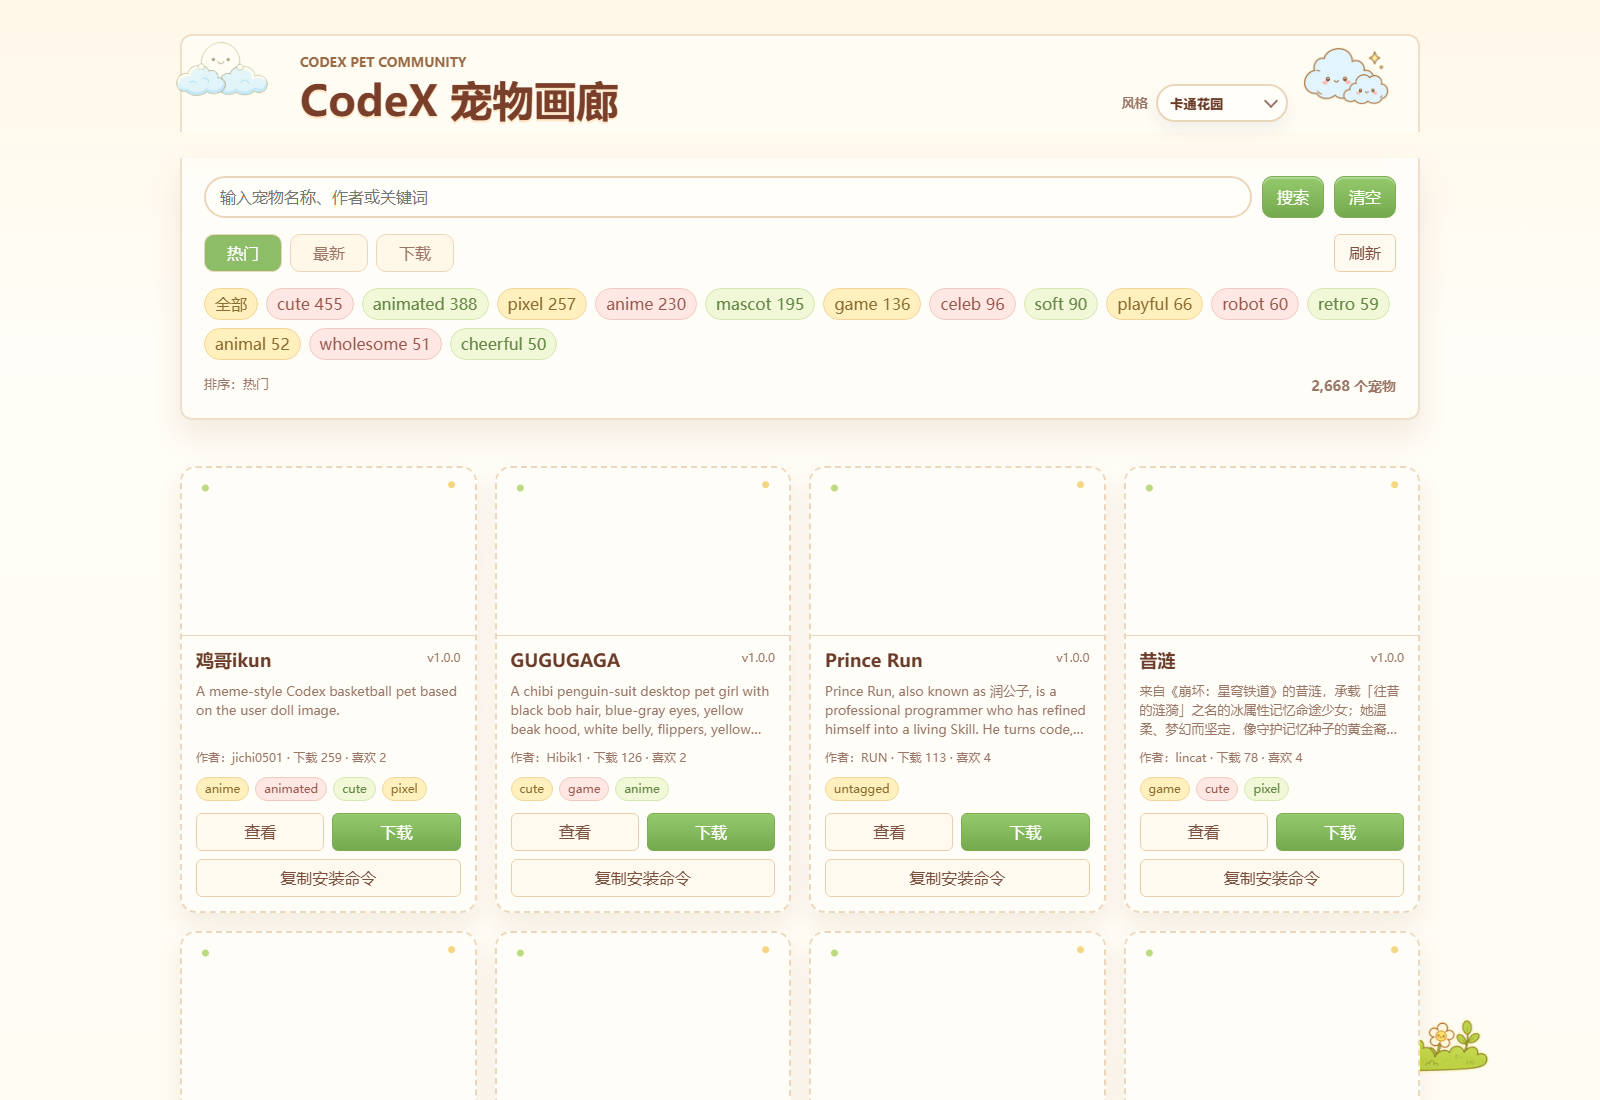
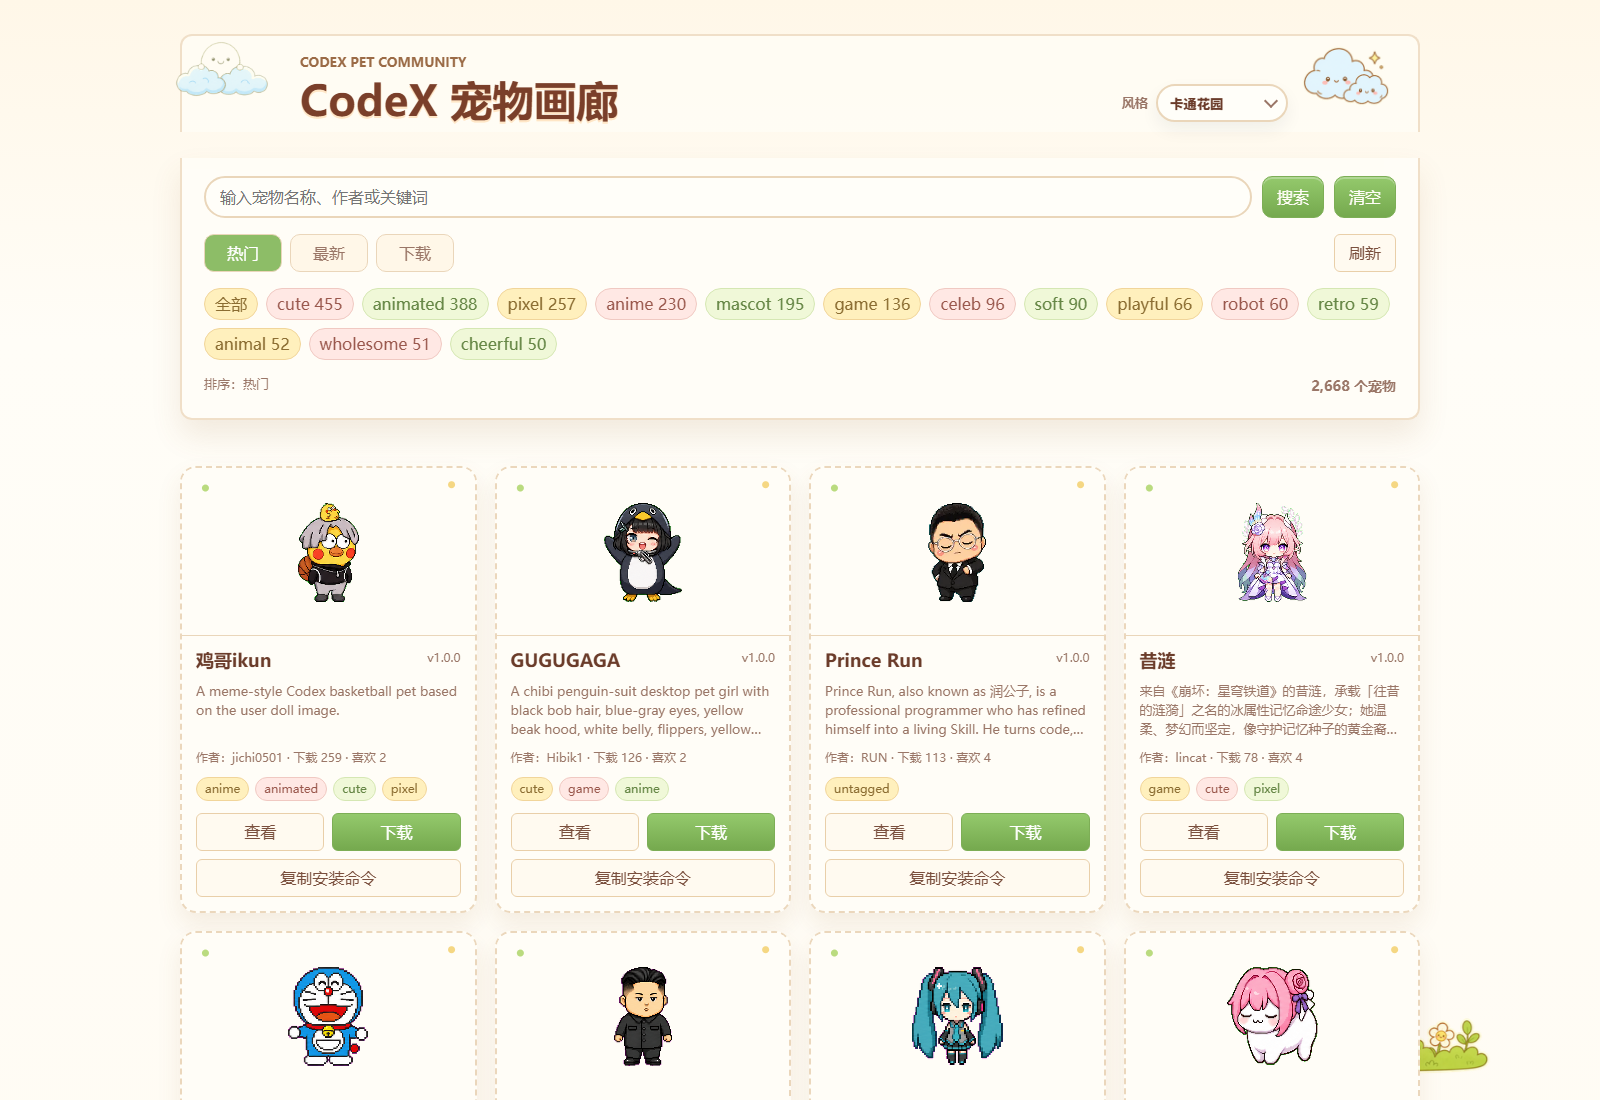
优化Codex宠物画廊推广

diff --git a/src/content/posts/2026-05-16-codex-pet-gallery-free-download.md b/src/content/posts/2026-05-16-codex-pet-gallery-free-download.md
@@ -90,55 +90,40 @@ https://codexpet.1024588.xyz/?style=cartoon
 
 ![GUGUGAGA spritesheet](/assets/images/posts/codex-pet-gallery/gugugaga-spritesheet.png)
 
-这些 spritesheet 会被 Codex 按行和帧数切分，映射到待机、移动、等待、检查等动作状态。你在页面上看到的是宠物包能否正常工作的关键资产。
+这些 spritesheet 会被 Codex 按行和帧数切分，映射到待机、移动、等待、检查等动作状态。
 
-## 第四步：下载宠物包
 
+## 第四步：下载安装宠物包
+下载方式分两种：
+### 第一种：直接下载文件压缩包 ###
 如果你只想先保存宠物，可以直接点击卡片或详情页里的“下载”按钮。下载得到的是一个宠物压缩包，文件名类似：
 
 ```text
-ikun-pet.codex-pet.zip
+ikun-pet.zip
 ```
 
-这个方式适合你想先收藏，或者准备手动检查包内容。
+找到codex的pets目录（快捷查看目录所在位置：打开codex软件-->>设置-->>外观-->>宠物-->自定义宠物-->>打开文件夹），
+将压缩包解压至当前文件夹中即可，回到Codex软件刷新后就可以配置自定义宠物了
+![pets所在目录](/assets/images/posts/codex-pet-gallery/pets-image.png)
+### 第二种：复制安装命令并执行（推荐） ###
 
-但如果目标是直接安装到 Codex，本页面更推荐用“复制安装命令”。
-
-## 第五步：复制安装命令并执行
-
-每个宠物都会生成一条 PowerShell 安装命令，格式如下：
+点击“复制安装命令”，会自动复制一个可以在 PowerShell 执行的安装命令，格式如下：
 
 ```powershell
 irm https://codexpet.xyz/install/ikun-pet?platform=ps1 | iex
 ```
-
 使用方式：
 
 1. 在画廊里找到喜欢的宠物。
 2. 点击“复制安装命令”。
-3. 打开 Windows PowerShell。
+3. 打开 Windows PowerShell（点击windows电脑的搜索按钮，搜索Windows PowerShell，右键以管理员身份打开）。
 4. 粘贴命令并回车。
-5. 等待脚本下载并安装宠物包。
+5. 等待脚本下载并安装宠物包，看到下面这个界面说明已经安装完成了。
+![Windows PowerShell界面](/assets/images/posts/codex-pet-gallery/powerShell.png)
+安装后，回到Codex软件的自定义宠物页面就可以进行切换了。
+![自定义宠物](/assets/images/posts/codex-pet-gallery/image.png)
 
-安装后，宠物会放到类似下面的位置：
-
-```text
-~/.codex/pets/ikun-pet/
-```
-
-如果你使用的是其他宠物，路径里的 `ikun-pet` 会替换成对应的宠物 slug。
-
-## 第六步：在 Codex 中使用
-
-安装完成后，重新打开 Codex 或刷新桌宠配置。如果当前 Codex 环境支持宠物选择，就可以切换到刚安装的宠物。
-
-建议你第一次安装后检查三件事：
-
-1. 宠物目录是否存在。
-2. 目录里是否包含 `pet.json` 和 spritesheet 图片。
-3. Codex 里是否能正常显示待机、移动、等待等动作。
-
-如果显示异常，优先换一个宠物再试。社区宠物来源多，个别包可能存在命名、尺寸或动画配置不一致的问题。
+恭喜你，到这里就完成了codex桌宠的安装！
 
 ## 适合哪些人
 